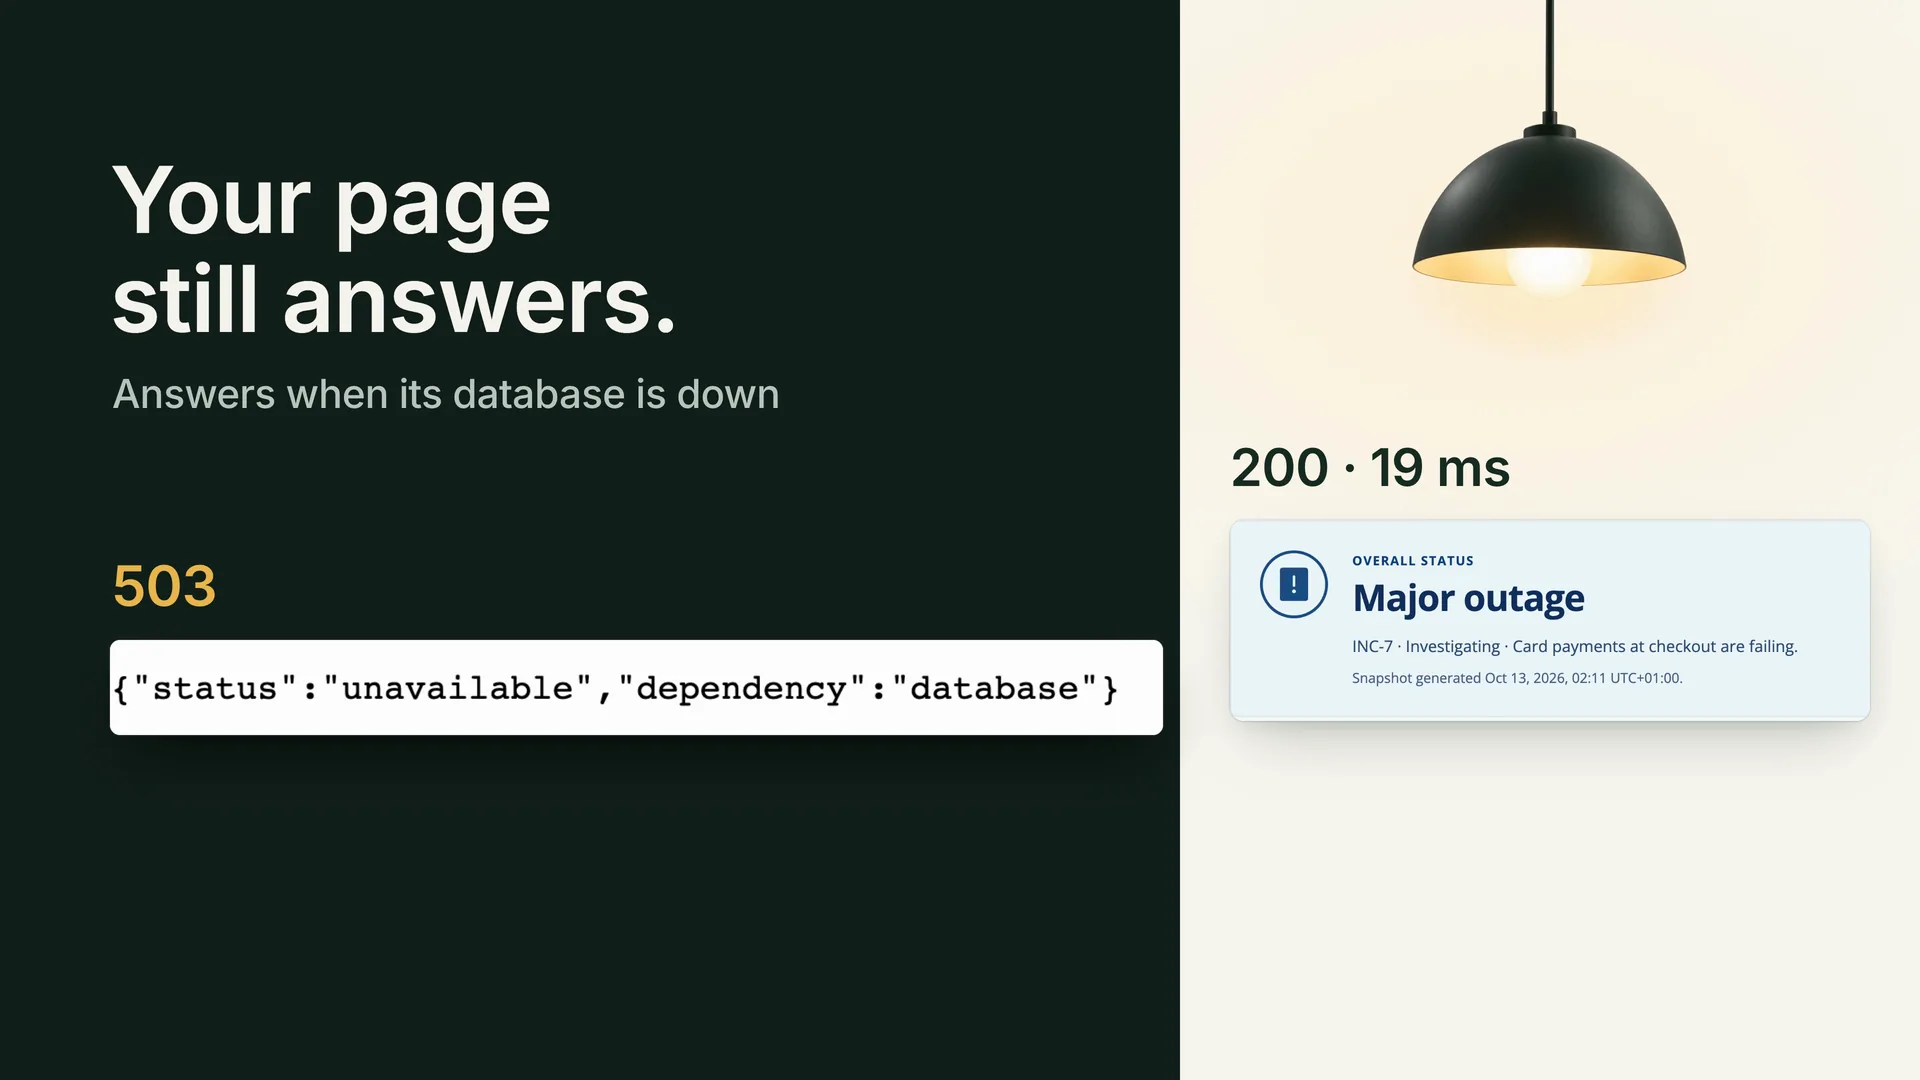
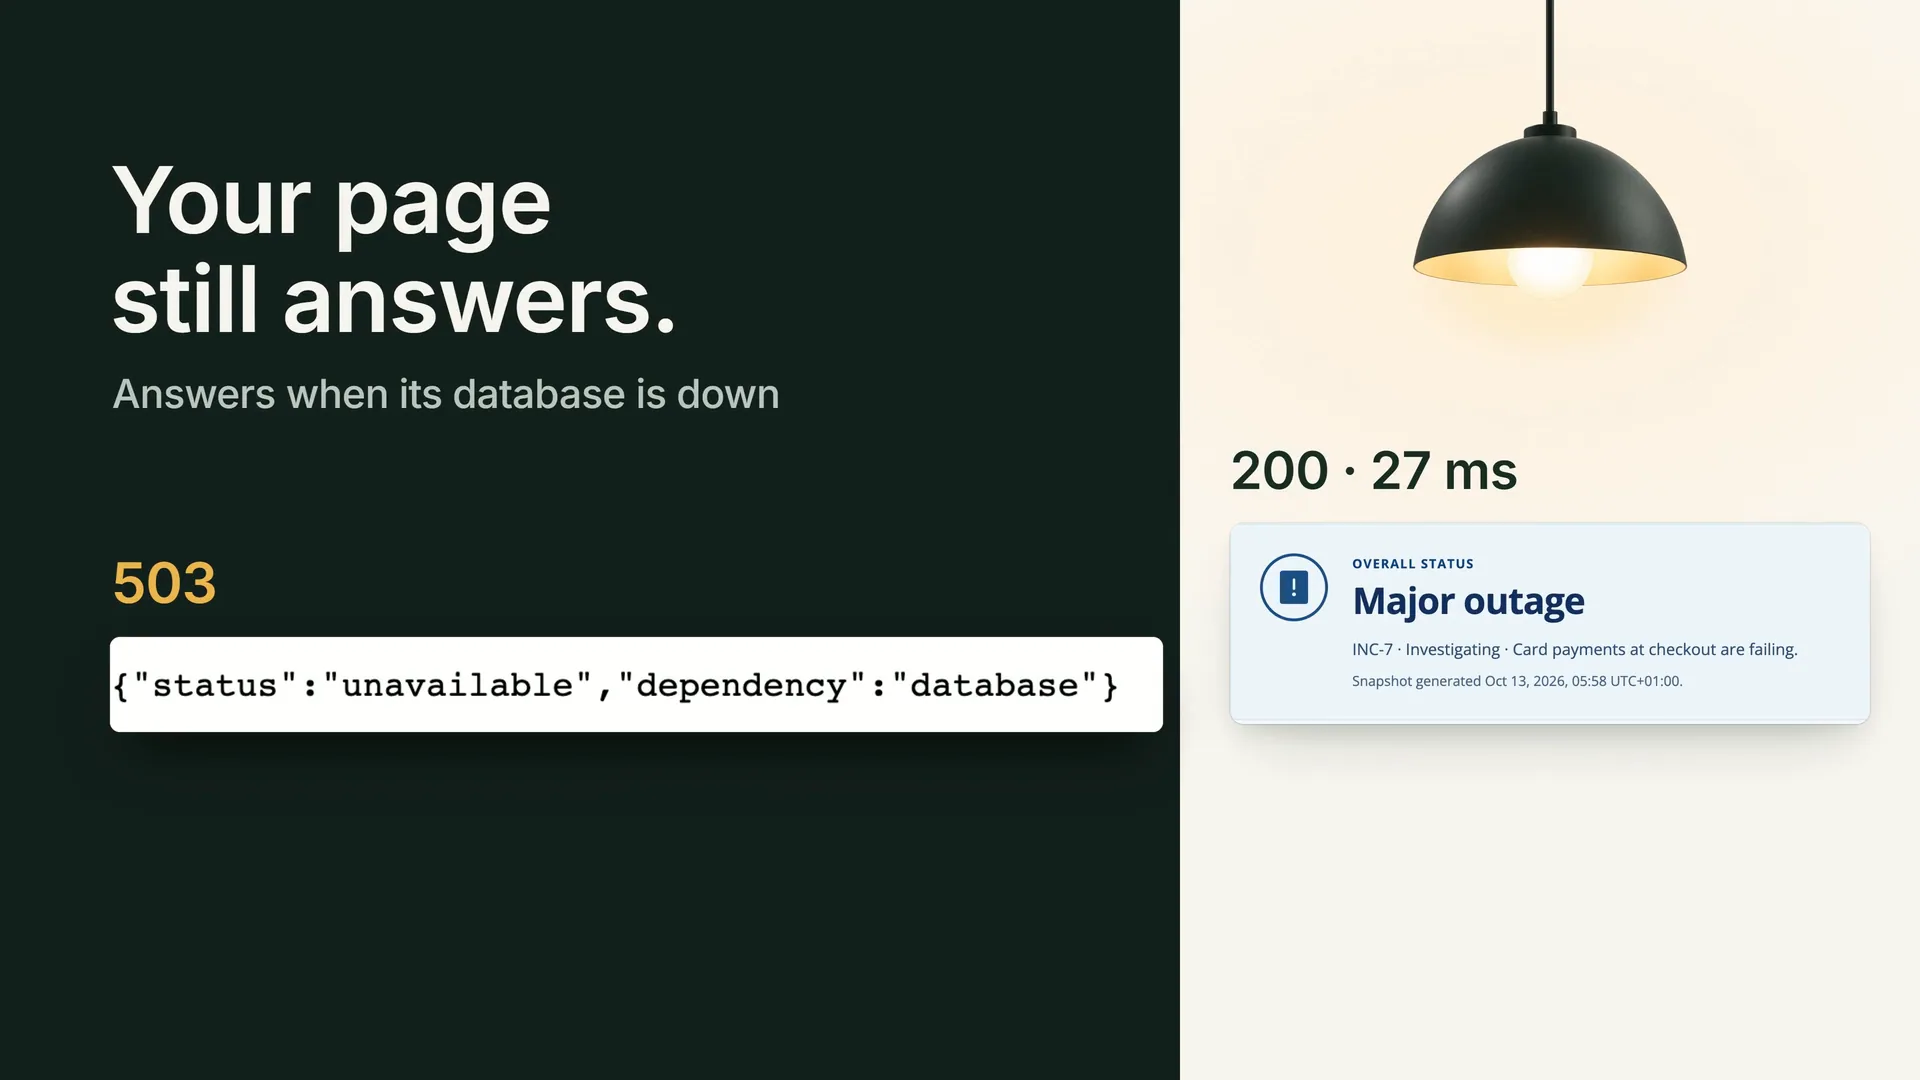
chore(reels): re-encode the newest Uptime and Lamp finals
scripts/update-reels.mjs chose the 4K Uptime final of 13 Oct 17:09
(sizzle-uptime worktree, 51.0 s) and the Lamp 1080p60 final of 13 Oct
18:41 (.artifacts/sizzle-lamp-20261013/final, 59.0 s). Only the 720p
encodes and posters are written; the 1080p files stay dropped. Lamp's
poster is the settled "Your page still answers." frame at 37.5 s
(--poster-at), not the mid-typing frame the scorer picked.

diff --git a/src/data/seeds.ts b/src/data/seeds.ts
@@ -41,7 +41,7 @@ export const seeds: Seed[] = [
     mark: `${dir('uptime')}/mark.svg`,
     markLight: `${dir('uptime')}/mark-light.svg`,
     markInk: null,
-    reel: reel('uptime', 51),
+    reel: reel('uptime', 51.1),
   },
   {
     slug: 'happytohelp',
@@ -104,7 +104,7 @@ export const seeds: Seed[] = [
     mark: `${dir('lamp')}/mark.svg`,
     markLight: `${dir('lamp')}/mark-light.svg`,
     markInk: null,
-    reel: reel('lamp', 57.8),
+    reel: reel('lamp', 59),
   },
   {
     slug: 'cradle',
